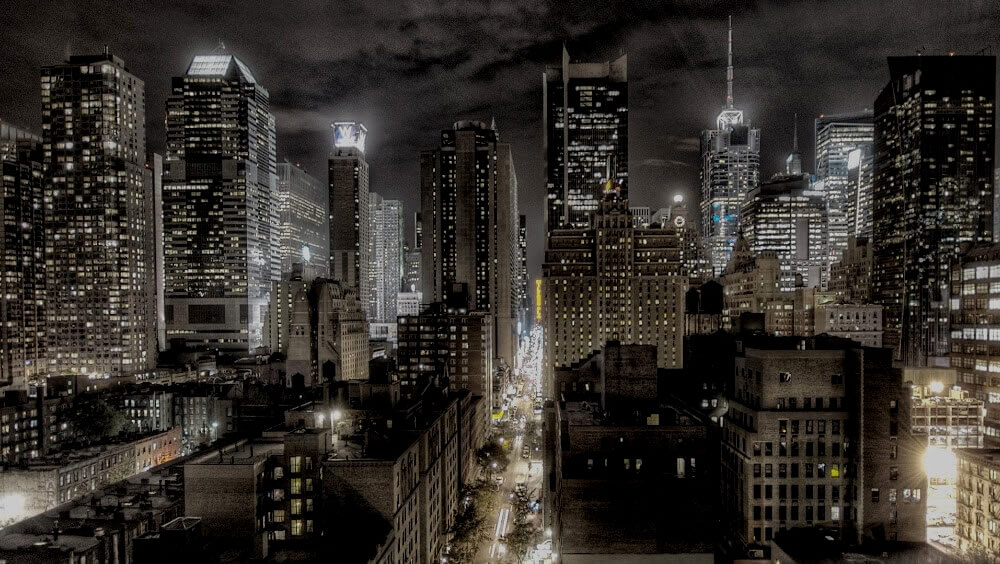
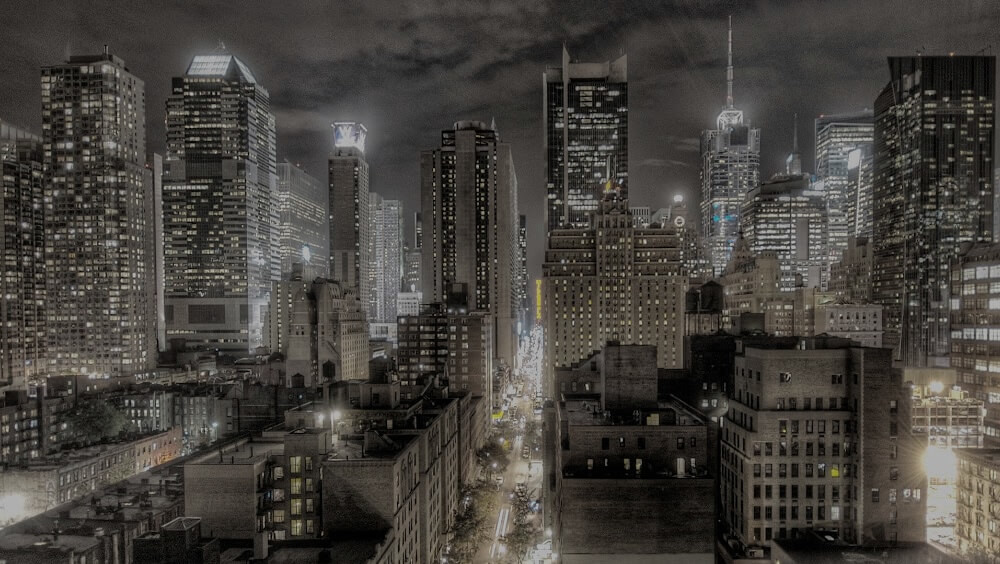
Revert bg image

diff --git a/index.html b/index.html
@@ -22,7 +22,7 @@
       }
 
       body {
-        background: url(assets/img/bg3.jpg) no-repeat center center fixed;
+        background: url(assets/img/new_york_city.jpg) no-repeat center center fixed;
         -webkit-background-size: cover;
         -moz-background-size: cover;
         -o-background-size: cover;
